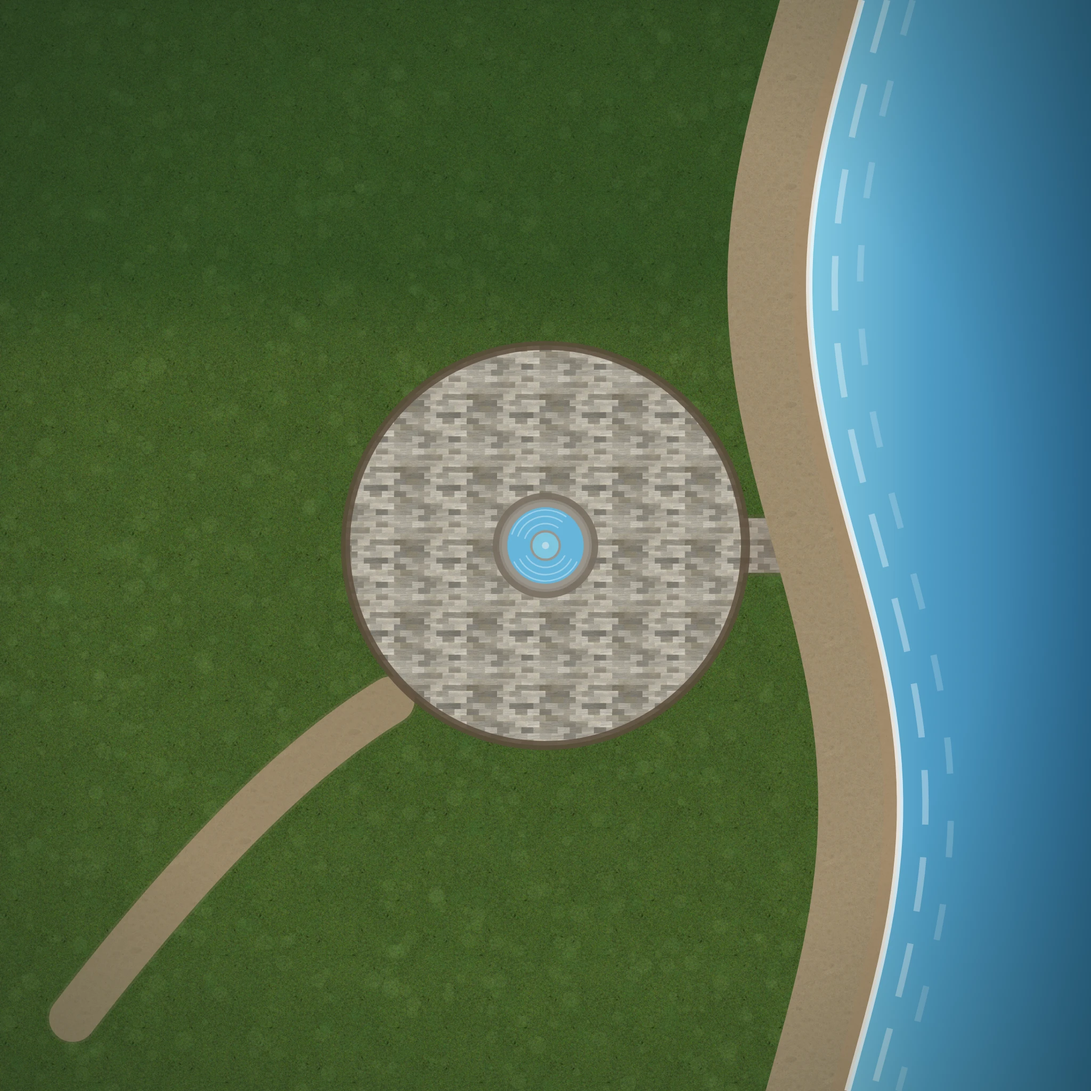
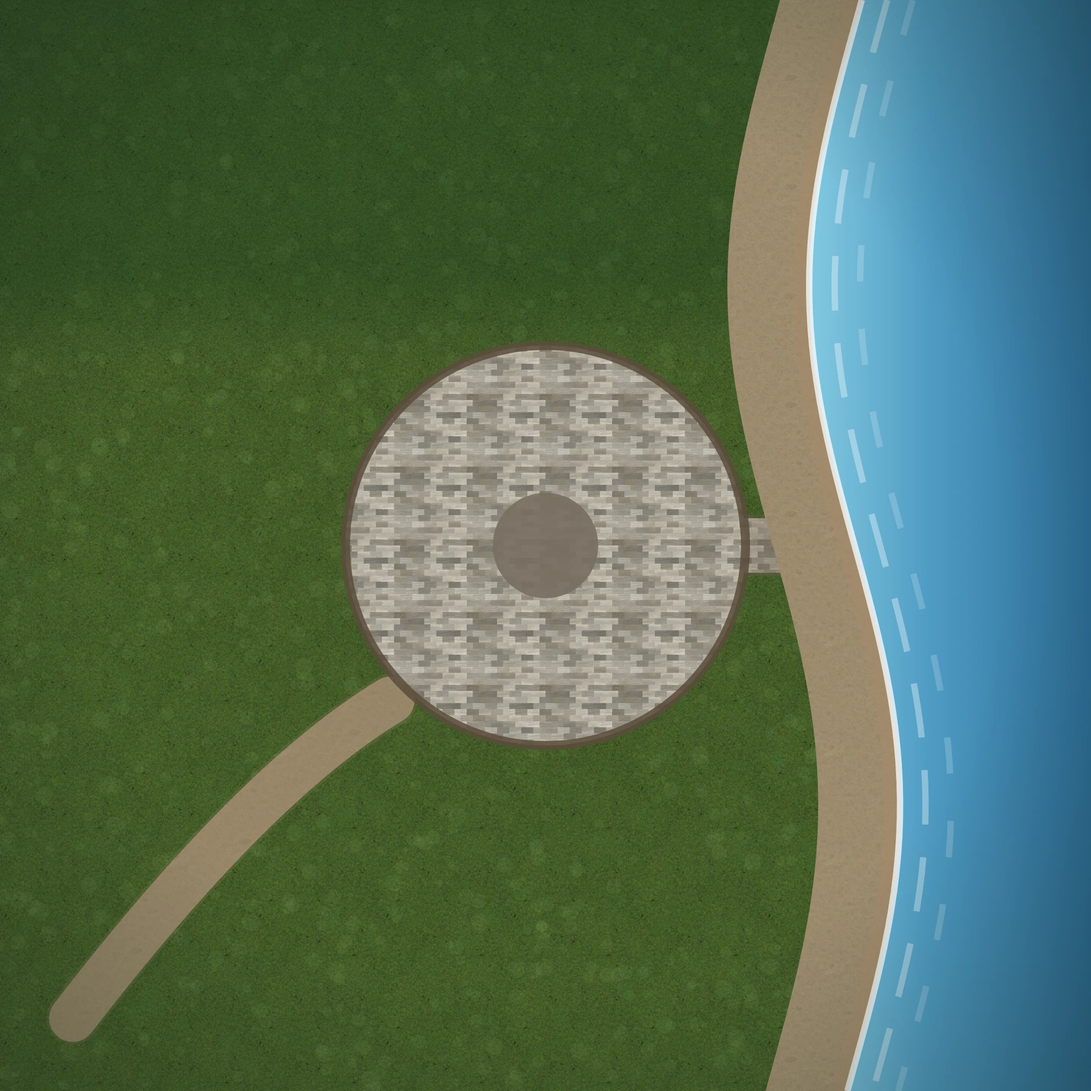
update fountain visual

Changed region(s): [[0.4375, 0.4375, 0.5625, 0.5625]]

diff --git a/client/scripts/generate-square/main.ts b/client/scripts/generate-square/main.ts
@@ -8,7 +8,11 @@
  *
  * 実行方法: vite devでこのページを開き、Playwright等から window.__generate() を呼ぶ。
  * テクスチャ素材(/textures, /sprites)を実際に読み込んで焼き込むためブラウザで動かす。
+ * 噴水はthree.jsで3Dメッシュを組んでWebGLで撮影するので、ヘッドレス実行時は
+ * WebGLが動くフラグ(--use-gl=angle --use-angle=swiftshader --enable-unsafe-swiftshader)が要る。
  */
+
+import * as THREE from 'three'
 
 const MAP_SIZE = 60
 const TEX_SIZE = 2048
@@ -280,9 +284,6 @@ function paintGround(ctx: CanvasRenderingContext2D, images: GroundImages): void 
   ctx.stroke()
   ctx.restore()
 
-  // 噴水(真上から見た姿を焼き込む。旧実装の3Dメッシュはワールドのプリミティブ化で廃止)
-  paintFountainTopDown(ctx)
-
   // マップ外周を暗くする
   const edge = ctx.createRadialGradient(
     TEX_SIZE / 2,
@@ -298,35 +299,122 @@ function paintGround(ctx: CanvasRenderingContext2D, images: GroundImages): void 
   ctx.fillRect(0, 0, TEX_SIZE, TEX_SIZE)
 }
 
-/** 噴水の真上ビュー。旧buildFountain()の寸法・色(石#9a948a / 水#66b5da)を踏襲 */
-function paintFountainTopDown(ctx: CanvasRenderingContext2D): void {
-  const cx = worldToPx(FOUNTAIN.x)
-  const cy = worldToPx(FOUNTAIN.z)
-  const circle = (r: number, fill: string) => {
-    ctx.beginPath()
-    ctx.arc(cx, cy, unitToPx(r), 0, Math.PI * 2)
-    ctx.fillStyle = fill
-    ctx.fill()
-  }
-  ctx.save()
-  circle(2.55, '#8f897f') // 外周の縁(わずかに暗い石)
-  circle(2.4, '#9a948a') // 石の縁
-  circle(2.1, '#66b5da') // 水盤
-  // 水面のきらめき
-  ctx.strokeStyle = 'rgba(255, 255, 255, 0.35)'
-  ctx.lineWidth = unitToPx(0.08)
-  for (const r of [1.2, 1.6, 1.95]) {
-    ctx.beginPath()
-    ctx.arc(cx, cy, unitToPx(r), Math.PI * 0.15, Math.PI * 0.85)
-    ctx.stroke()
-    ctx.beginPath()
-    ctx.arc(cx, cy, unitToPx(r), Math.PI * 1.1, Math.PI * 1.7)
-    ctx.stroke()
-  }
-  circle(0.85, '#9a948a') // 中央の受け皿
-  circle(0.72, '#7fc5de') // 受け皿の水
-  circle(0.2, '#b9d9e8') // 噴き上げの白
-  ctx.restore()
+// ---------------------------------------------------------------------------
+// 噴水スプライト(3Dメッシュをゲームと同じ視点で撮影し、2Dスプライトとして配置する)
+// ---------------------------------------------------------------------------
+
+/**
+ * Game.tsのCAMERA_DIRと同値。スプライトはこの向きで撮った絵なので、
+ * ゲーム側の視点を変えたらここも合わせて再生成する
+ */
+const CAMERA_DIR = new THREE.Vector3(0, 0.9, 1).normalize()
+/** スプライトの解像度(px/ワールド単位) */
+const SPRITE_PX_PER_UNIT = 160
+/** SceneRenderer.buildSprite()のsprite.center.y と同値(画像下端からの接地点の位置) */
+const SPRITE_ANCHOR_Y = 0.02
+
+interface RenderedSprite {
+  png: string // dataURL
+  /** スプライトの寸法(ワールド単位) */
+  w: number
+  h: number
+  /** 接地点(画像下端中央)のモデル原点からのzオフセット。手前に張り出す分だけ正になる */
+  anchorZ: number
+}
+
+/** 旧GroundMap.buildFountain()と同じ構成(石#9a948a / 水#66b5da の円柱と円) */
+function buildFountainMesh(): THREE.Group {
+  const group = new THREE.Group()
+  const stone = new THREE.MeshStandardMaterial({ color: 0x9a948a, roughness: 0.9 })
+  const water = new THREE.MeshBasicMaterial({ color: 0x66b5da })
+
+  const basin = new THREE.Mesh(new THREE.CylinderGeometry(2.4, 2.55, 0.6, 28), stone)
+  basin.position.y = 0.3
+  const pool = new THREE.Mesh(new THREE.CircleGeometry(2.1, 28), water)
+  pool.rotation.x = -Math.PI / 2
+  pool.position.y = 0.62
+  const pillar = new THREE.Mesh(new THREE.CylinderGeometry(0.32, 0.5, 1.1, 16), stone)
+  pillar.position.y = 1.1
+  const bowl = new THREE.Mesh(new THREE.CylinderGeometry(0.85, 0.6, 0.28, 20), stone)
+  bowl.position.y = 1.72
+  const bowlWater = new THREE.Mesh(new THREE.CircleGeometry(0.72, 20), water)
+  bowlWater.rotation.x = -Math.PI / 2
+  bowlWater.position.y = 1.87
+
+  group.add(basin, pool, pillar, bowl, bowlWater)
+  return group
+}
+
+/**
+ * モデルをゲームと同じ平行投影・同じライトで透過PNGに撮影する。
+ * 画像の下端中央をワールドのどこに接地させるか(anchorZ)も一緒に返す。
+ * ゲームのスプライトは接地点から画面上方へ伸びるビルボードなので、
+ * 画像の最下点を接地点にしないと地面より下の部分が埋もれて消える
+ */
+function renderSprite(model: THREE.Object3D): RenderedSprite {
+  const scene = new THREE.Scene()
+  // Game.setupLights()と同じライト
+  scene.add(new THREE.HemisphereLight(0xdfeaff, 0x8a9a78, 1.2))
+  const sun = new THREE.DirectionalLight(0xffffff, 1.6)
+  sun.position.set(20, 40, 25)
+  scene.add(sun)
+  scene.add(model)
+  model.updateMatrixWorld(true)
+
+  // 画面座標系: 横=ワールドx、縦=視線に直交する上向き(lookAtのupがyなのでyz平面内)
+  const screenUp = new THREE.Vector3(0, CAMERA_DIR.z, -CAMERA_DIR.y)
+  let maxAbsX = 0
+  let minV = Number.POSITIVE_INFINITY
+  let maxV = Number.NEGATIVE_INFINITY
+  const v = new THREE.Vector3()
+  model.traverse((obj) => {
+    if (!(obj instanceof THREE.Mesh)) return
+    const pos = obj.geometry.getAttribute('position')
+    for (let i = 0; i < pos.count; i++) {
+      v.fromBufferAttribute(pos, i).applyMatrix4(obj.matrixWorld)
+      maxAbsX = Math.max(maxAbsX, Math.abs(v.x))
+      const sv = v.dot(screenUp)
+      minV = Math.min(minV, sv)
+      maxV = Math.max(maxV, sv)
+    }
+  })
+
+  // 外接矩形にアンチエイリアス分の余白を足し、接地点の余白(center.y)を下に確保する
+  const pad = 2 / SPRITE_PX_PER_UNIT
+  const halfW = maxAbsX + pad
+  const top = maxV + pad
+  const visibleH = top - (minV - pad)
+  const h = visibleH / (1 - SPRITE_ANCHOR_Y)
+  const bottom = top - h
+  const pxW = Math.ceil(halfW * 2 * SPRITE_PX_PER_UNIT)
+  const pxH = Math.ceil(h * SPRITE_PX_PER_UNIT)
+  // 画素数に丸めた分だけ寸法を補正(画像が伸縮しないように)
+  const w = pxW / SPRITE_PX_PER_UNIT
+  const hExact = pxH / SPRITE_PX_PER_UNIT
+  const bottomExact = top - hExact
+
+  const camera = new THREE.OrthographicCamera(-w / 2, w / 2, top, bottomExact, 0.1, 100)
+  camera.position.copy(CAMERA_DIR).multiplyScalar(50)
+  camera.lookAt(0, 0, 0)
+
+  const canvas = document.createElement('canvas')
+  const renderer = new THREE.WebGLRenderer({
+    canvas,
+    antialias: true,
+    alpha: true,
+    preserveDrawingBuffer: true,
+  })
+  renderer.setPixelRatio(1)
+  renderer.setSize(pxW, pxH, false)
+  renderer.setClearColor(0x000000, 0)
+  renderer.render(scene, camera)
+  const png = canvas.toDataURL('image/png')
+  renderer.dispose()
+  document.body.appendChild(canvas) // 目視確認用
+
+  // 接地点: 画像のcenter.y位置が地面(y=0)のどのzに当たるか。地面上の点(0,0,z)の縦座標は -z*CAMERA_DIR.y
+  const anchorV = bottomExact + hExact * SPRITE_ANCHOR_Y
+  return { png, w: round(w), h: round(hExact), anchorZ: round(-anchorV / CAMERA_DIR.y) }
 }
 
 // ---------------------------------------------------------------------------
@@ -471,11 +559,30 @@ function seaPolygon(): [number, number][] {
   return points
 }
 
-function buildWorldJson(): string {
+function buildWorldJson(fountain: RenderedSprite): string {
   const scene: Record<string, unknown>[] = [
     { id: 'ground', kind: 'ground', texture: 'square/ground.webp' },
     { id: 'sea', kind: 'collider', shape: 'polygon', points: seaPolygon() },
-    { id: 'fountain', kind: 'collider', shape: 'circle', x: FOUNTAIN.x, z: FOUNTAIN.z, r: FOUNTAIN.r },
+    // 噴水: 3Dメッシュを撮影したスプライト。親groupが通行不可円を持ち、子が絵。
+    // 絵は手前に張り出す分(anchorZ)だけ前に置いて下端を接地させる(足元影は土台を焼き込み済みなので無し)
+    {
+      id: 'fountain',
+      kind: 'group',
+      x: FOUNTAIN.x,
+      z: FOUNTAIN.z,
+      collider: FOUNTAIN.r,
+      children: [
+        {
+          id: 'fountain-visual',
+          kind: 'sprite',
+          image: 'square/fountain.png',
+          z: fountain.anchorZ,
+          w: fountain.w,
+          h: fountain.h,
+          shadow: false,
+        },
+      ],
+    },
   ]
   TREES.forEach((t, i) => {
     const def = TREE_DEFS[t.kind]
@@ -624,6 +731,7 @@ function buildWorldJson(): string {
 interface GenerateResult {
   json: string
   groundPng: string // dataURL
+  fountainPng: string // dataURL
   scarecrowPng: string // dataURL
   slimePng: string // dataURL
 }
@@ -640,8 +748,10 @@ async function generate(): Promise<GenerateResult> {
   if (!ctx) throw new Error('2d context unavailable')
   paintGround(ctx, { grass, paving, sand })
   document.body.appendChild(canvas) // 目視確認用
+  const fountain = renderSprite(buildFountainMesh())
   return {
-    json: buildWorldJson(),
+    json: buildWorldJson(fountain),
+    fountainPng: fountain.png,
     // 地面は非透過かつ巨大(2048px)なのでWebPで書き出す(PNGだと~9MBになる)
     groundPng: canvas.toDataURL('image/webp', 0.9),
     scarecrowPng: paintScarecrow().toDataURL('image/png'),

diff --git a/client/src/world/SceneRenderer.ts b/client/src/world/SceneRenderer.ts
@@ -433,7 +433,8 @@ export class SceneRenderer {
     sprite.scale.set(w, h, 1)
     const group = new THREE.Group()
     group.add(sprite)
-    group.add(makeBlobShadow(w * 0.32))
+    // shadow:false で足元影を省ける(土台を地面に焼き込んだ噴水など、影が不自然になるもの向け)
+    if (node.shadow !== false) group.add(makeBlobShadow(w * 0.32))
     return {
       def: node,
       object: group,
